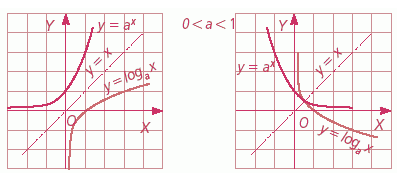
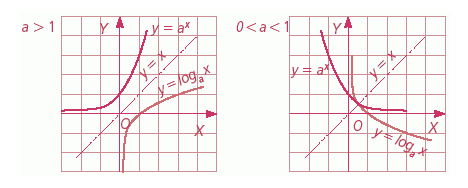
En la rama master  Cambios para hacer commit: 	modificado:    "Funci\303\263n Logar\303\255tmica.png" 	modificado:    Temario.tex

Changed region(s): [[0.0, 0.0565, 0.9875, 0.9605]]

diff --git a/Temario.tex b/Temario.tex
@@ -683,8 +683,10 @@ población humana y otros crecimientos.
 Una función logarítmica es aquella que genéricamente se expresa como $f (x) == log_ax$, siendo $a$ la base
 de esta función, que ha de ser positiva y distinta de 1.
 La función logarítmica es la inversa de la función exponencial (ver t35), dado que:
-loga x = b Û ab = x.
-
+$log_a x = b \Longleftarrow a^b = x$.
+\begin{figure}
+ \includegraphics[scale=.9]{FuncionLogaritmica}\caption{Función exponencial y función logarítmica)}\label{explog}
+\end{figure}
 Como la exponencial, la función logarítmica se utiliza con asiduidad en los cálculos y desarrollos
 de las matemáticas, las ciencias naturales y las ciencias sociales. Entre otros fines,
 se usa ampliamente para «comprimir» la escala de medida de magnitudes cuyo crecimiento,
